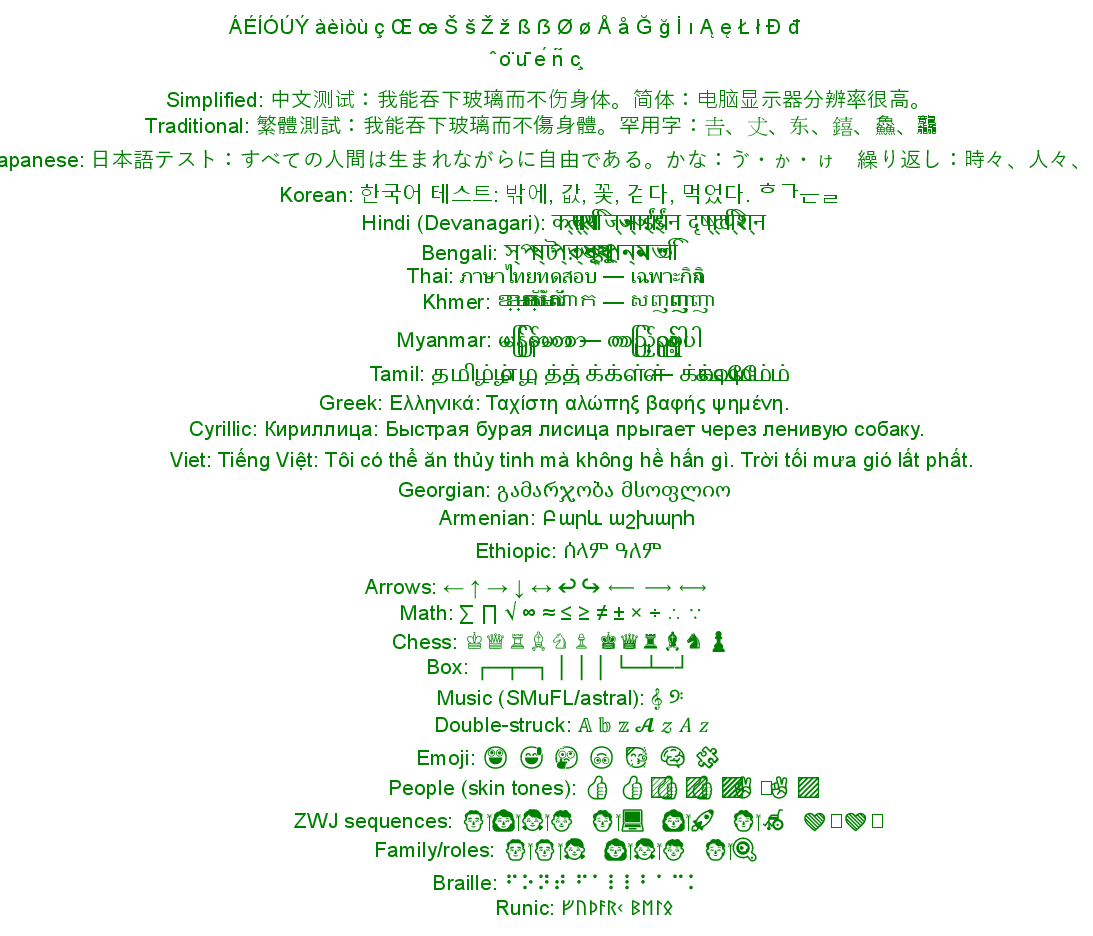
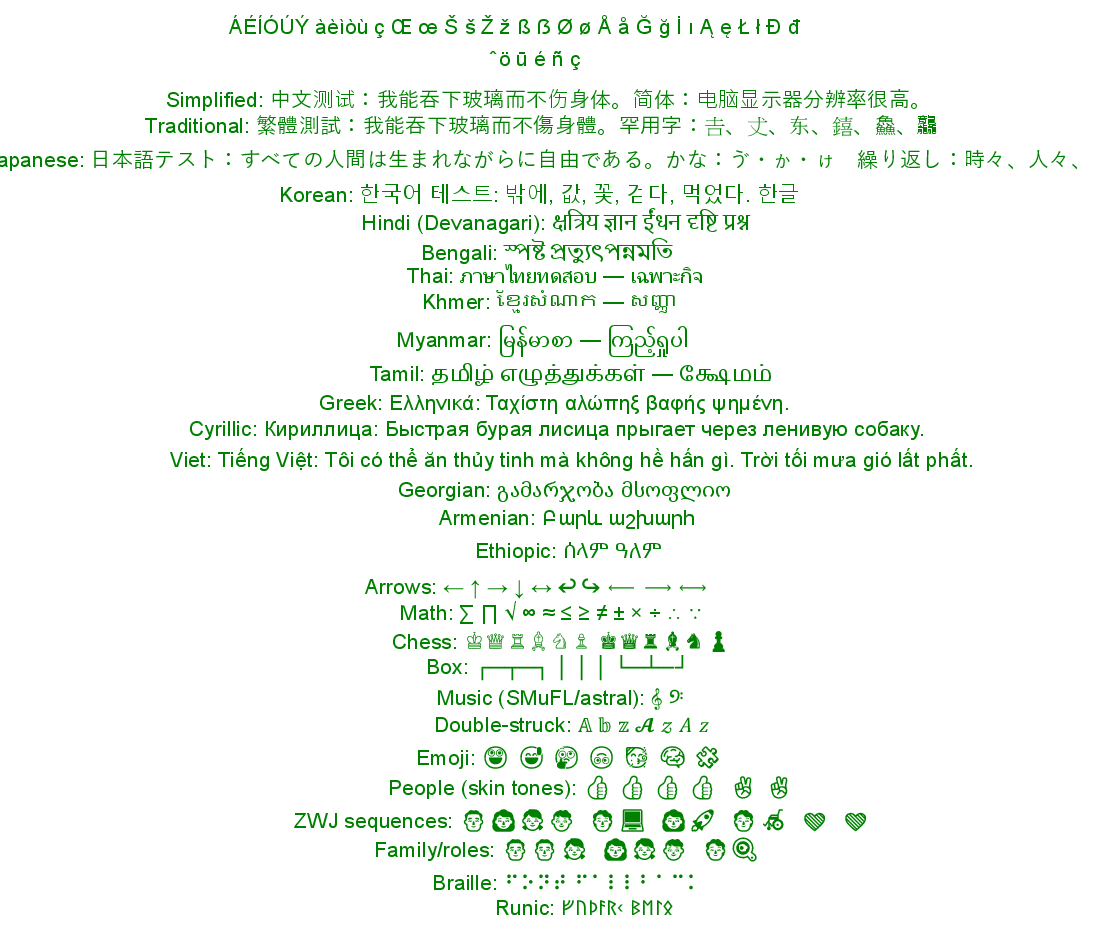
Use a RenderTextEvent to better control which glyphs PDFsharp uses when drawing text so that we correctly use HarfBuzz shaping.

diff --git a/src/MapModel/Map_PDF/PdfGraphicsTarget.cs b/src/MapModel/Map_PDF/PdfGraphicsTarget.cs
@@ -34,6 +34,7 @@
 
 using Map_SkiaStd;
 using PdfSharp.Drawing;
+using PdfSharp.Events;
 using PdfSharp.Fonts;
 using PdfSharp.Pdf;
 using PurplePen.Graphics2D;
@@ -66,6 +67,7 @@ namespace PurplePen.MapModel
 
         private bool cmykMode;   // true=CMYK, false=RGB
         private XGraphics gfx;
+        private PdfGlyphSubstituter glyphSubstituter;   // supplies shaped glyphs to PDFsharp
         private Stack<XGraphicsState> stateStack;
         private XStringFormat stringFormat;
         private Dictionary<object, XPen> penMap = new Dictionary<object, XPen>(new IdentityComparer<object>());
@@ -73,10 +75,32 @@ namespace PurplePen.MapModel
         private Dictionary<object, SkiaFont> fontMap = new Dictionary<object, SkiaFont>(new IdentityComparer<object>());
         private Dictionary<object, XGraphicsPath> pathMap = new Dictionary<object, XGraphicsPath>(new IdentityComparer<object>());
 
+        // Create a graphics target that draws into the given XGraphics. Text drawn through this
+        // target has its glyphs resolved by PDFsharp from the characters, which loses the shaping
+        // done by HarfBuzz. PdfDocumentWriter uses the overload below instead.
+        //
+        // Parameters:
+        //   gfx - the PDFsharp graphics object to draw into.
+        //   cmykMode - true for CMYK output, false for RGB.
         public Pdf_GraphicsTarget(XGraphics gfx, bool cmykMode)
+            : this(gfx, cmykMode, null)
+        {
+        }
+
+        // Create a graphics target that draws into the given XGraphics, handing PDFsharp the
+        // glyphs that were actually shaped.
+        //
+        // Parameters:
+        //   gfx - the PDFsharp graphics object to draw into.
+        //   cmykMode - true for CMYK output, false for RGB.
+        //   glyphSubstituter - the substituter hooked to the owning document's RenderTextEvent,
+        //     used to hand PDFsharp the shaped glyph for each character drawn. May be null, in
+        //     which case PDFsharp maps characters to glyphs itself.
+        internal Pdf_GraphicsTarget(XGraphics gfx, bool cmykMode, PdfGlyphSubstituter glyphSubstituter)
         {
             this.gfx = gfx;
             this.cmykMode = cmykMode;
+            this.glyphSubstituter = glyphSubstituter;
             stateStack = new Stack<XGraphicsState>();
             stringFormat = new XStringFormat();
             stringFormat.Alignment = XStringAlignment.Near;
@@ -492,9 +516,23 @@ namespace PurplePen.MapModel
 
             foreach (GlyphPosition glyph in glyphs) {
                 XFont xfont = XFontFromTypeface(glyph.Typeface, skiaFont.EmHeight);
-                // glyph.Position is already on the baseline, and stringFormat uses
-                // XLineAlignment.BaseLine, so it is passed through unadjusted.
-                gfx.DrawString(glyph.GlyphText, xfont, brush, new XPoint(glyph.Position.X, glyph.Position.Y), stringFormat);
+
+                // Tell PDFsharp which glyph HarfBuzz picked for this cluster. Without this it
+                // would map glyph.GlyphText through the font's character map itself and lose the
+                // shaping. The value is set for exactly one DrawString call, because PDFsharp
+                // raises the same event when measuring text.
+                if (glyphSubstituter != null)
+                    glyphSubstituter.PendingGlyphId = (ushort) glyph.GlyphId;
+
+                try {
+                    // glyph.Position is already on the baseline, and stringFormat uses
+                    // XLineAlignment.BaseLine, so it is passed through unadjusted.
+                    gfx.DrawString(glyph.GlyphText, xfont, brush, new XPoint(glyph.Position.X, glyph.Position.Y), stringFormat);
+                }
+                finally {
+                    if (glyphSubstituter != null)
+                        glyphSubstituter.PendingGlyphId = null;
+                }
             }
 
         }
@@ -506,13 +544,17 @@ namespace PurplePen.MapModel
         {
             SkiaFont skiaFont = GetFont(fontKey);
 
-            GlyphPosition[] glyphs = skiaFont.EnhancedTypeface.GetGlyphPositions(text, new SKPoint(upperLeft.X, upperLeft.Y), (float)skiaFont.EmHeight);
-
             XGraphicsPath grPath = new XGraphicsPath();
             grPath.FillMode = XFillMode.Winding;
 
-            foreach (GlyphPosition glyph in glyphs) {
-                AddTextOutlineToPath(grPath, glyph.GlyphText, glyph.Typeface, skiaFont.EmHeight, glyph.Position.X, glyph.Position.Y);
+            // EnhancedTypeface.GetTextPath outlines the glyphs that HarfBuzz shaped, looking each
+            // one up by glyph id. Going back to the characters here instead -- as this used to do,
+            // via SKFont.GetTextPath -- would map them through the font's character map again and
+            // throw the shaping away, which is the same mistake DrawText used to make. It also
+            // keeps the outlined text identical to what the Skia target draws on screen, since
+            // that uses this same method.
+            using (SKPath skPath = skiaFont.EnhancedTypeface.GetTextPath(text, new SKPoint(upperLeft.X, upperLeft.Y), (float) skiaFont.EmHeight)) {
+                AddSkiaPathToPdfPath(grPath, skPath);
             }
 
             gfx.DrawPath(GetPen(penKey), grPath);
@@ -526,14 +568,16 @@ namespace PurplePen.MapModel
             return new XFont(encodedFamilyName, height, XFontStyleEx.Regular, new XPdfFontOptions(PdfFontEncoding.Unicode, PdfFontEmbedding.TryComputeSubset));
         }
 
-        private static void AddTextOutlineToPath(XGraphicsPath pdfPath, string text, SKTypeface typeFace, float fontSize, float x, float y)
+        // Convert a Skia path into a PDF path, appending to whatever is already there.
+        //
+        // Parameters:
+        //   pdfPath - the path to append to.
+        //   skPath - the Skia path to convert.
+        private static void AddSkiaPathToPdfPath(XGraphicsPath pdfPath, SKPath skPath)
         {
-            // 1. Iterate of the path of the text.
-            using (SKFont font = new SKFont(typeFace, fontSize))
-            using (SKPath skPath = font.GetTextPath(text, new SKPoint(x, y)))
             using (SKPath.Iterator iterator = skPath.CreateIterator(false)) {
 
-                // 3. Map each SKPath verb to the corresponding PDF path command.
+                // Map each SKPath verb to the corresponding PDF path command.
                 SKPathVerb verb;
                 SKPoint[] pts = new SKPoint[4];
 
@@ -712,6 +756,46 @@ namespace PurplePen.MapModel
     // This is the FontResolver that we use. Because isBold and isItalic are not enough, we want to really encode
     // Skia information of weight, width, and slant. So we encode that information in the family name, and ignore the isBold and isItalic parameters.
     // The familyName looks like family^weight^width^slant.
+    // Supplies PDFsharp with the glyph that HarfBuzz actually chose, in place of the one
+    // PDFsharp would look up for itself.
+    //
+    // Pdf_GraphicsTarget shapes a string with HarfBuzz and then draws it one glyph at a time.
+    // XGraphics.DrawString takes characters rather than glyphs, so on its own PDFsharp would map
+    // each cluster back through the font's character map and discard the shaping: ligatures come
+    // apart, combining marks are placed as separate characters, and any character the font cannot
+    // map becomes .notdef, which prints as a hollow box. PDFsharp raises RenderTextEvent after it
+    // has resolved glyph indices and before it writes them out, which is where the shaped glyph
+    // can be put back.
+    //
+    // One instance belongs to each PdfDocumentWriter and is shared by every graphics target that
+    // draws into that document. It holds the glyph for the draw currently in progress, so it is
+    // no more thread safe than the rest of PDF generation.
+    internal class PdfGlyphSubstituter
+    {
+        // The glyph to write for the DrawString call currently in progress, or null when no
+        // substitution applies. PDFsharp also raises RenderTextEvent while measuring, so a null
+        // here means "leave whatever PDFsharp resolved alone".
+        public ushort? PendingGlyphId { get; set; }
+
+        // Handler for PdfDocument.RenderEvents.RenderTextEvent.
+        public void OnRenderText(object sender, RenderTextEventArgs e)
+        {
+            if (PendingGlyphId == null)
+                return;
+
+            CodePointGlyphIndexPair[] pairs = e.CodePointGlyphIndexPairs;
+
+            // One glyph replaces the whole cluster. Keep the cluster's first code point so the
+            // /ToUnicode map can still say what this glyph stands for; a cluster covering several
+            // code points can only record the first of them.
+            int codePoint = pairs.Length > 0 ? pairs[0].CodePoint : 0;
+
+            e.CodePointGlyphIndexPairs = new CodePointGlyphIndexPair[] {
+                new CodePointGlyphIndexPair(codePoint, PendingGlyphId.Value)
+            };
+        }
+    }
+
     class PdfFontResolver : IFontResolver
     {
         public FontResolverInfo ResolveTypeface(string familyName, bool isBold, bool isItalic)

diff --git a/src/MapModel/Map_SkiaStd/EnhancedTypeface.cs b/src/MapModel/Map_SkiaStd/EnhancedTypeface.cs
@@ -1,4 +1,4 @@
-using PurplePen.Graphics2D;
+using PurplePen.Graphics2D;
 using PurplePen.MapModel;
 using SkiaSharp;
 using SkiaSharp.HarfBuzz;
@@ -10,6 +10,7 @@ using System.Drawing;
 using System.Drawing.Text;
 using System.IO;
 using System.Linq;
+using System.Text;
 using System.Threading;
 
 namespace Map_SkiaStd
@@ -607,10 +608,40 @@ namespace Map_SkiaStd
             }
         }
 
+        // Normalizes text to NFC (precomposed) form before it is shaped.
+        //
+        // Decomposed text -- a base letter followed by a combining mark -- shapes correctly, but
+        // the cluster it produces covers several code points for one glyph. Callers that map a
+        // glyph back to the characters it came from then have a multi-character cluster to deal
+        // with, which is what the PDF target has to hand to PDFsharp. Composing first keeps the
+        // common Latin cases, including the Latvian diacritics, at one code point per glyph.
+        //
+        // Parameters:
+        //   text - the text to normalize.
+        private static string NormalizeForShaping(string text)
+        {
+            try {
+                if (!text.IsNormalized(NormalizationForm.FormC))
+                    return text.Normalize(NormalizationForm.FormC);
+            }
+            catch (ArgumentException) {
+                // The string contains invalid Unicode, such as an unpaired surrogate. Shape it
+                // as given rather than failing to draw it at all.
+            }
+
+            return text;
+        }
+
         // Shapes the complete text string, handling font fallback.
         // Returns a list of shaped runs (one per typeface segment) and the total advance width.
-        private (List<ShapedRunResult> runs, float totalWidth) ShapeText(string text, float fontSize)
+        //
+        // The text is passed by reference because it is normalized here. Callers map cluster
+        // indices from the result back into the string, so they must index the same normalized
+        // string that was shaped, not the one they were originally given.
+        private (List<ShapedRunResult> runs, float totalWidth) ShapeText(ref string text, float fontSize)
         {
+            text = NormalizeForShaping(text);
+
             List<TextRun> textRuns = SegmentByTypeface(text);
             List<ShapedRunResult> shapedRuns = new List<ShapedRunResult>();
             float xOffset = 0;
@@ -713,7 +744,7 @@ namespace Map_SkiaStd
                 }
             }
 #else
-            (List<ShapedRunResult> runs, float totalWidth) = ShapeText(text, fontSize);
+            (List<ShapedRunResult> runs, float totalWidth) = ShapeText(ref text, fontSize);
             float ascent = GetMainAscent(fontSize);
 
             using (SKTextBlob blob = BuildTextBlob(runs, fontSize, ascent, paint))
@@ -740,7 +771,7 @@ namespace Map_SkiaStd
             if (string.IsNullOrEmpty(text))
                 return resultPath;
 
-            (List<ShapedRunResult> runs, float totalWidth) = ShapeText(text, fontSize);
+            (List<ShapedRunResult> runs, float totalWidth) = ShapeText(ref text, fontSize);
             float ascent = GetMainAscent(fontSize);
 
             foreach (ShapedRunResult run in runs)
@@ -777,7 +808,7 @@ namespace Map_SkiaStd
             if (string.IsNullOrEmpty(text))
                 return 0;
 
-            (List<ShapedRunResult> runs, float totalWidth) = ShapeText(text, fontSize);
+            (List<ShapedRunResult> runs, float totalWidth) = ShapeText(ref text, fontSize);
             return totalWidth;
         }
 
@@ -791,7 +822,7 @@ namespace Map_SkiaStd
             if (string.IsNullOrEmpty(text))
                 return SKRect.Empty;
 
-            (List<ShapedRunResult> runs, float totalWidth) = ShapeText(text, fontSize);
+            (List<ShapedRunResult> runs, float totalWidth) = ShapeText(ref text, fontSize);
 
             // Compute tight bounds by unioning each glyph's bounding box offset by its position.
             SKRect totalBounds = SKRect.Empty;
@@ -846,7 +877,7 @@ namespace Map_SkiaStd
             if (string.IsNullOrEmpty(text))
                 return new GlyphPosition[0];
 
-            (List<ShapedRunResult> runs, float totalWidth) = ShapeText(text, fontSize);
+            (List<ShapedRunResult> runs, float totalWidth) = ShapeText(ref text, fontSize);
             float ascent = GetMainAscent(fontSize);
 
             List<GlyphPosition> result = new List<GlyphPosition>();

diff --git a/src/MapModel/Map_PDF/PdfWriter.cs b/src/MapModel/Map_PDF/PdfWriter.cs
@@ -55,6 +55,7 @@ namespace PurplePen.MapModel
     {
         private string fileName;
         private PdfDocument document;
+        private PdfGlyphSubstituter glyphSubstituter;
 
         static PdfDocumentWriter()
         {
@@ -81,6 +82,13 @@ namespace PurplePen.MapModel
             document.Options.NoCompression = false;
             document.Options.CompressContentStreams = true;
             document.Options.ColorMode = cmykMode ? PdfColorMode.Cmyk : PdfColorMode.Rgb;
+
+            // Hook text rendering so the graphics targets can hand PDFsharp the glyphs that
+            // HarfBuzz shaped, rather than letting PDFsharp map characters to glyphs itself.
+            // The event belongs to the document, so it is hooked once here and the substituter
+            // is shared by every page's graphics target.
+            glyphSubstituter = new PdfGlyphSubstituter();
+            document.RenderEvents.RenderTextEvent += glyphSubstituter.OnRenderText;
         }
 
         // Get a page.
@@ -97,7 +105,7 @@ namespace PurplePen.MapModel
             XGraphics gfx = XGraphics.FromPdfPage(page);
 
             // Get a graphics target
-            IGraphicsTarget target = new Pdf_GraphicsTarget(gfx, document.Options.ColorMode == PdfColorMode.Cmyk);
+            IGraphicsTarget target = new Pdf_GraphicsTarget(gfx, document.Options.ColorMode == PdfColorMode.Cmyk, glyphSubstituter);
 
             // Change units to hundreths of inch from points.
             Matrix matrix = new Matrix();
@@ -130,7 +138,7 @@ namespace PurplePen.MapModel
                 XGraphics gfx = XGraphics.FromPdfPage(page);
 
                 // Get a graphics target
-                IGraphicsTarget target = new Pdf_GraphicsTarget(gfx, document.Options.ColorMode == PdfColorMode.Cmyk);
+                IGraphicsTarget target = new Pdf_GraphicsTarget(gfx, document.Options.ColorMode == PdfColorMode.Cmyk, glyphSubstituter);
 
                 PointF cropBoxOriginInPoints = CropboxOriginInPoints(pageToCopy);
 
